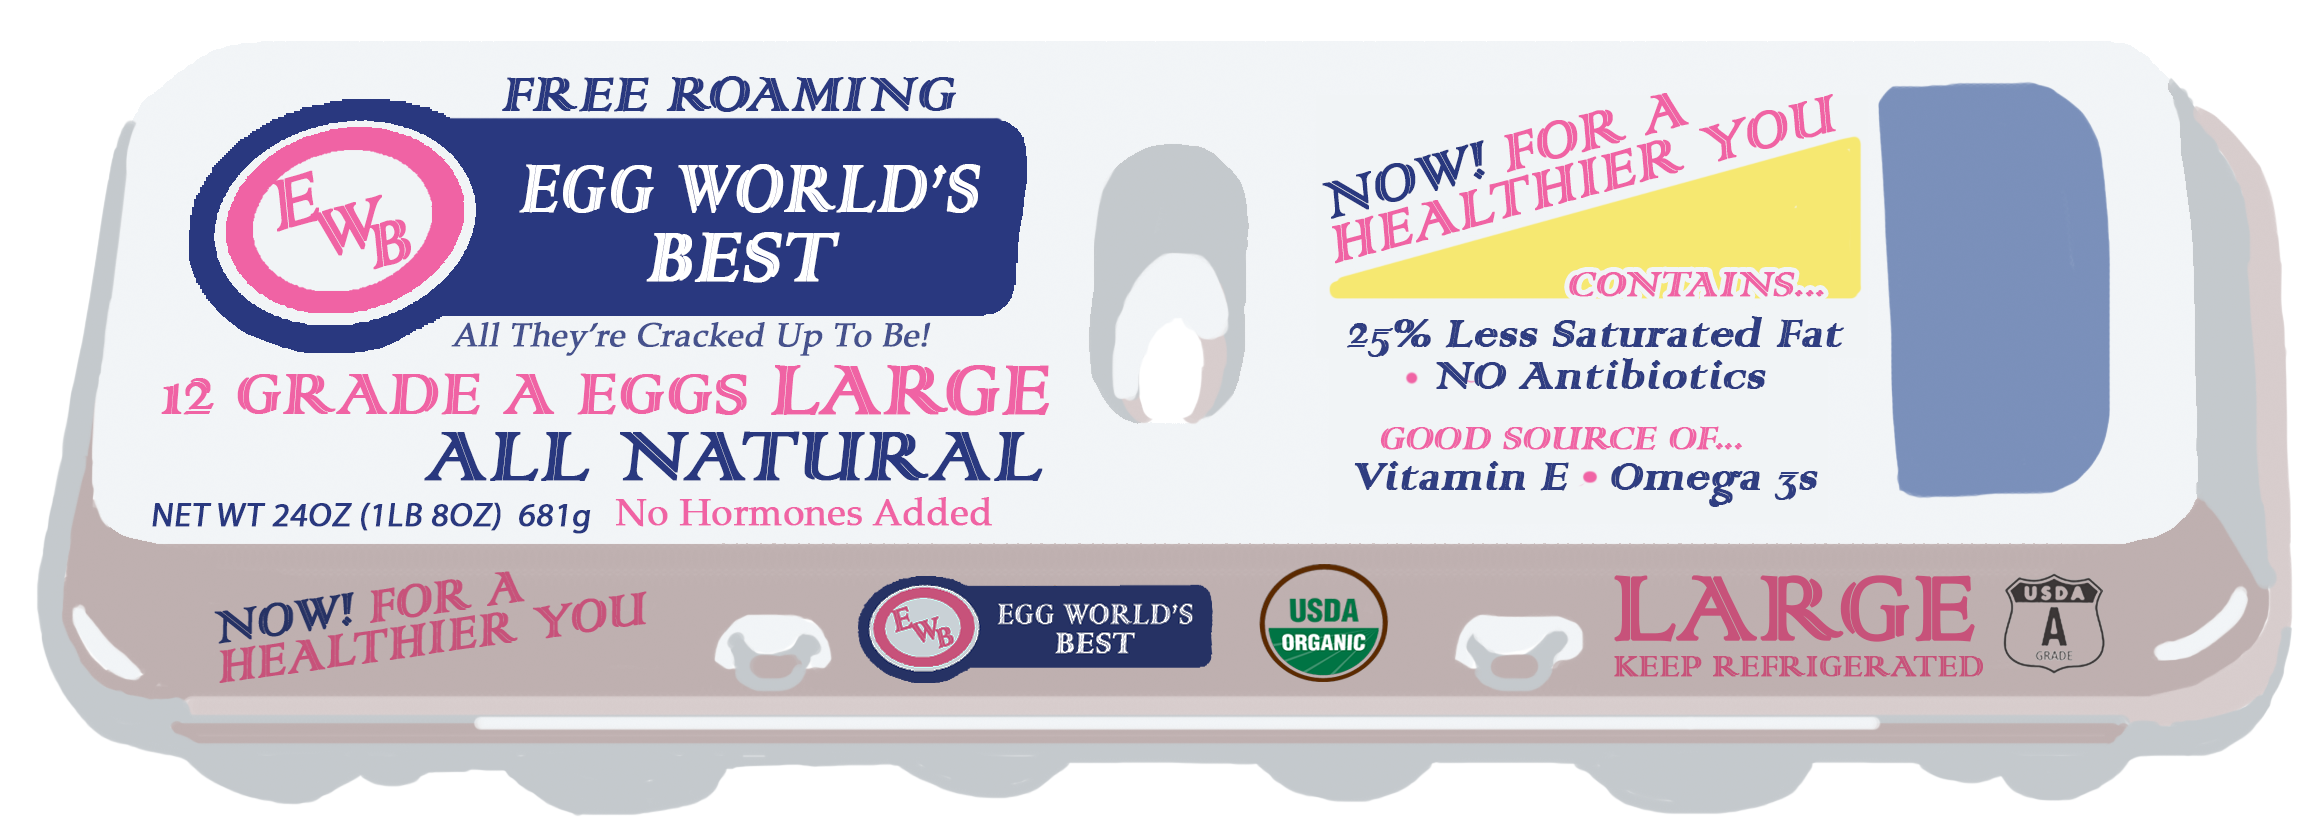
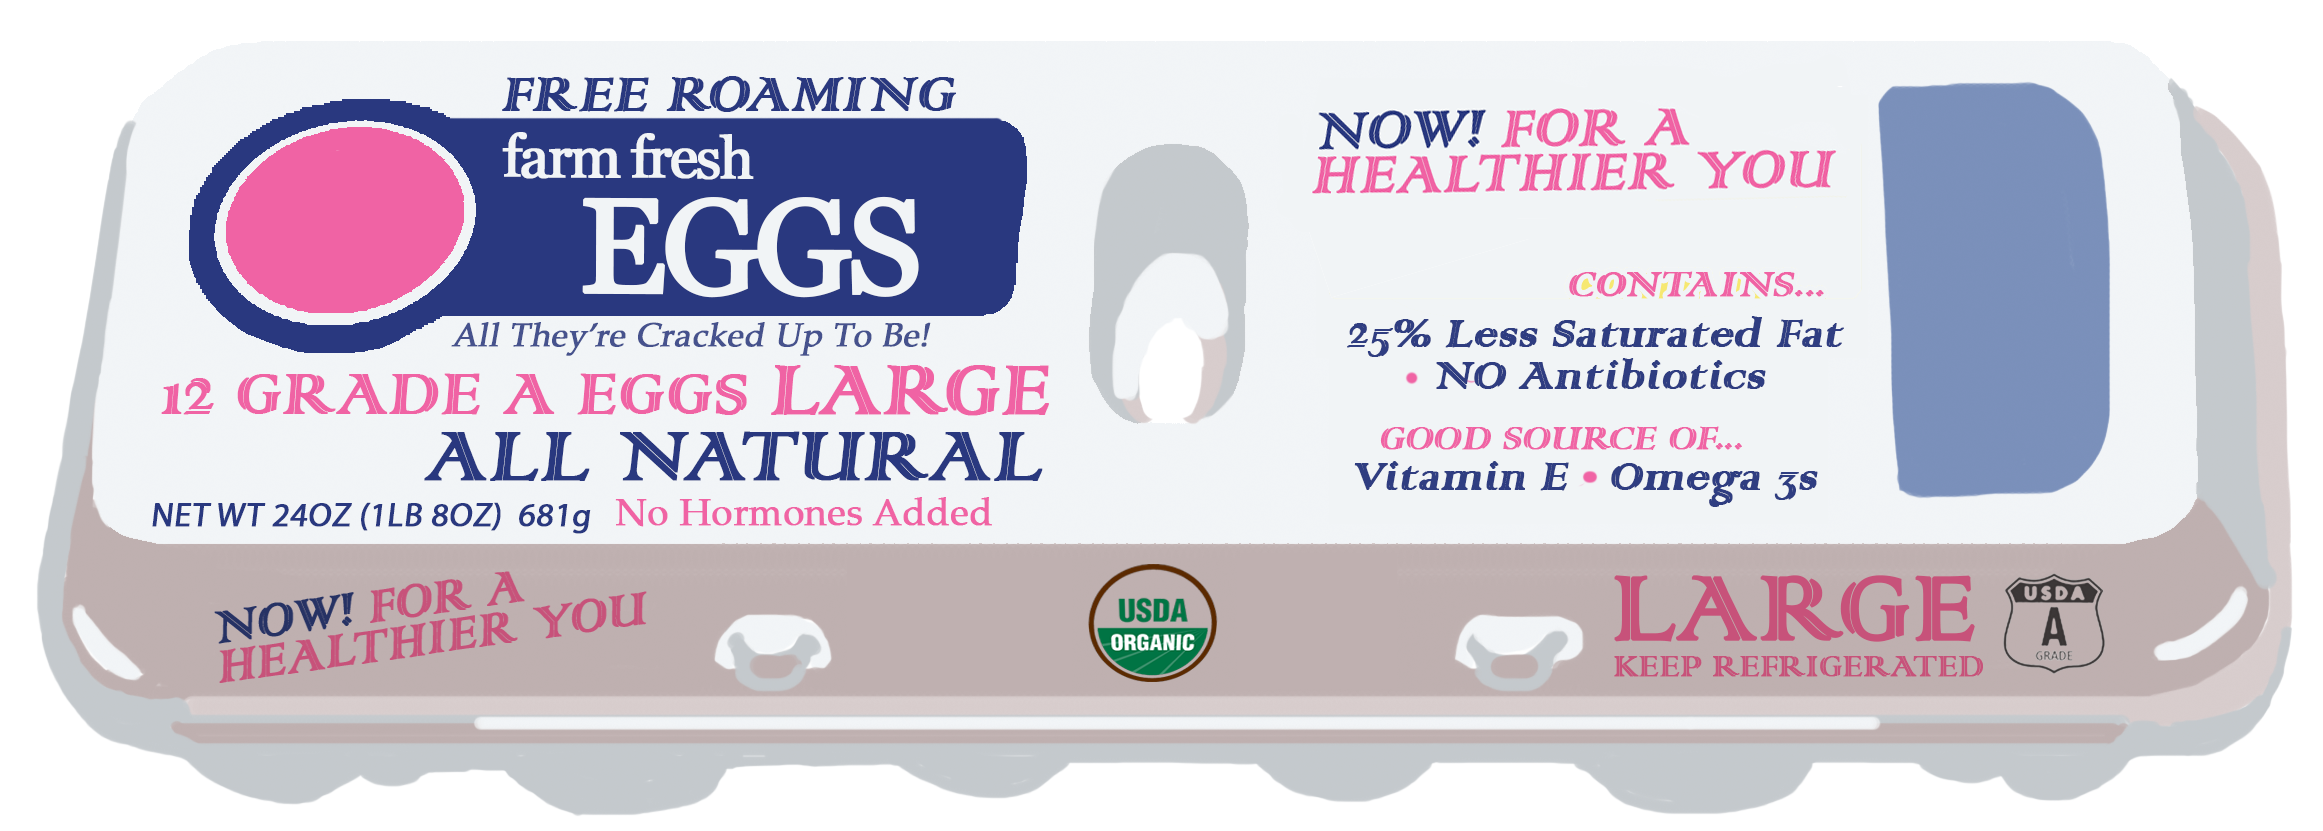
changes to css/images

diff --git a/css/explore-labels.css b/css/explore-labels.css
@@ -238,13 +238,13 @@ font-weight: 300;
 }
 
 #USDA-organic{
-margin-left: 144px;
+margin-left: 464px;
 
-margin-top: 43px;
+margin-top: 208px;
 
-width: 85px;
+width: 55px;
 
-height: 85px;
+height: 55px;
 
 }
 
@@ -519,6 +519,7 @@ height: 85px;
 	border-color: #000000;
 
 	border-radius: 20px;
+	height:245px;
 }
 
 #poultry-label-text-box{
@@ -577,12 +578,12 @@ height: 85px;
 .label-default-text {
 	text-align: center;
 	position: relative;
-	padding-top: 10%;
 	top: 50%;
 	-webkit-transform: translateY(-50%);
 	-ms-transfrom: translateY(-50%);
 	transform: translateY(-50%);
 }
+
 
 .terms-to-look-for{
 	position: relative;
